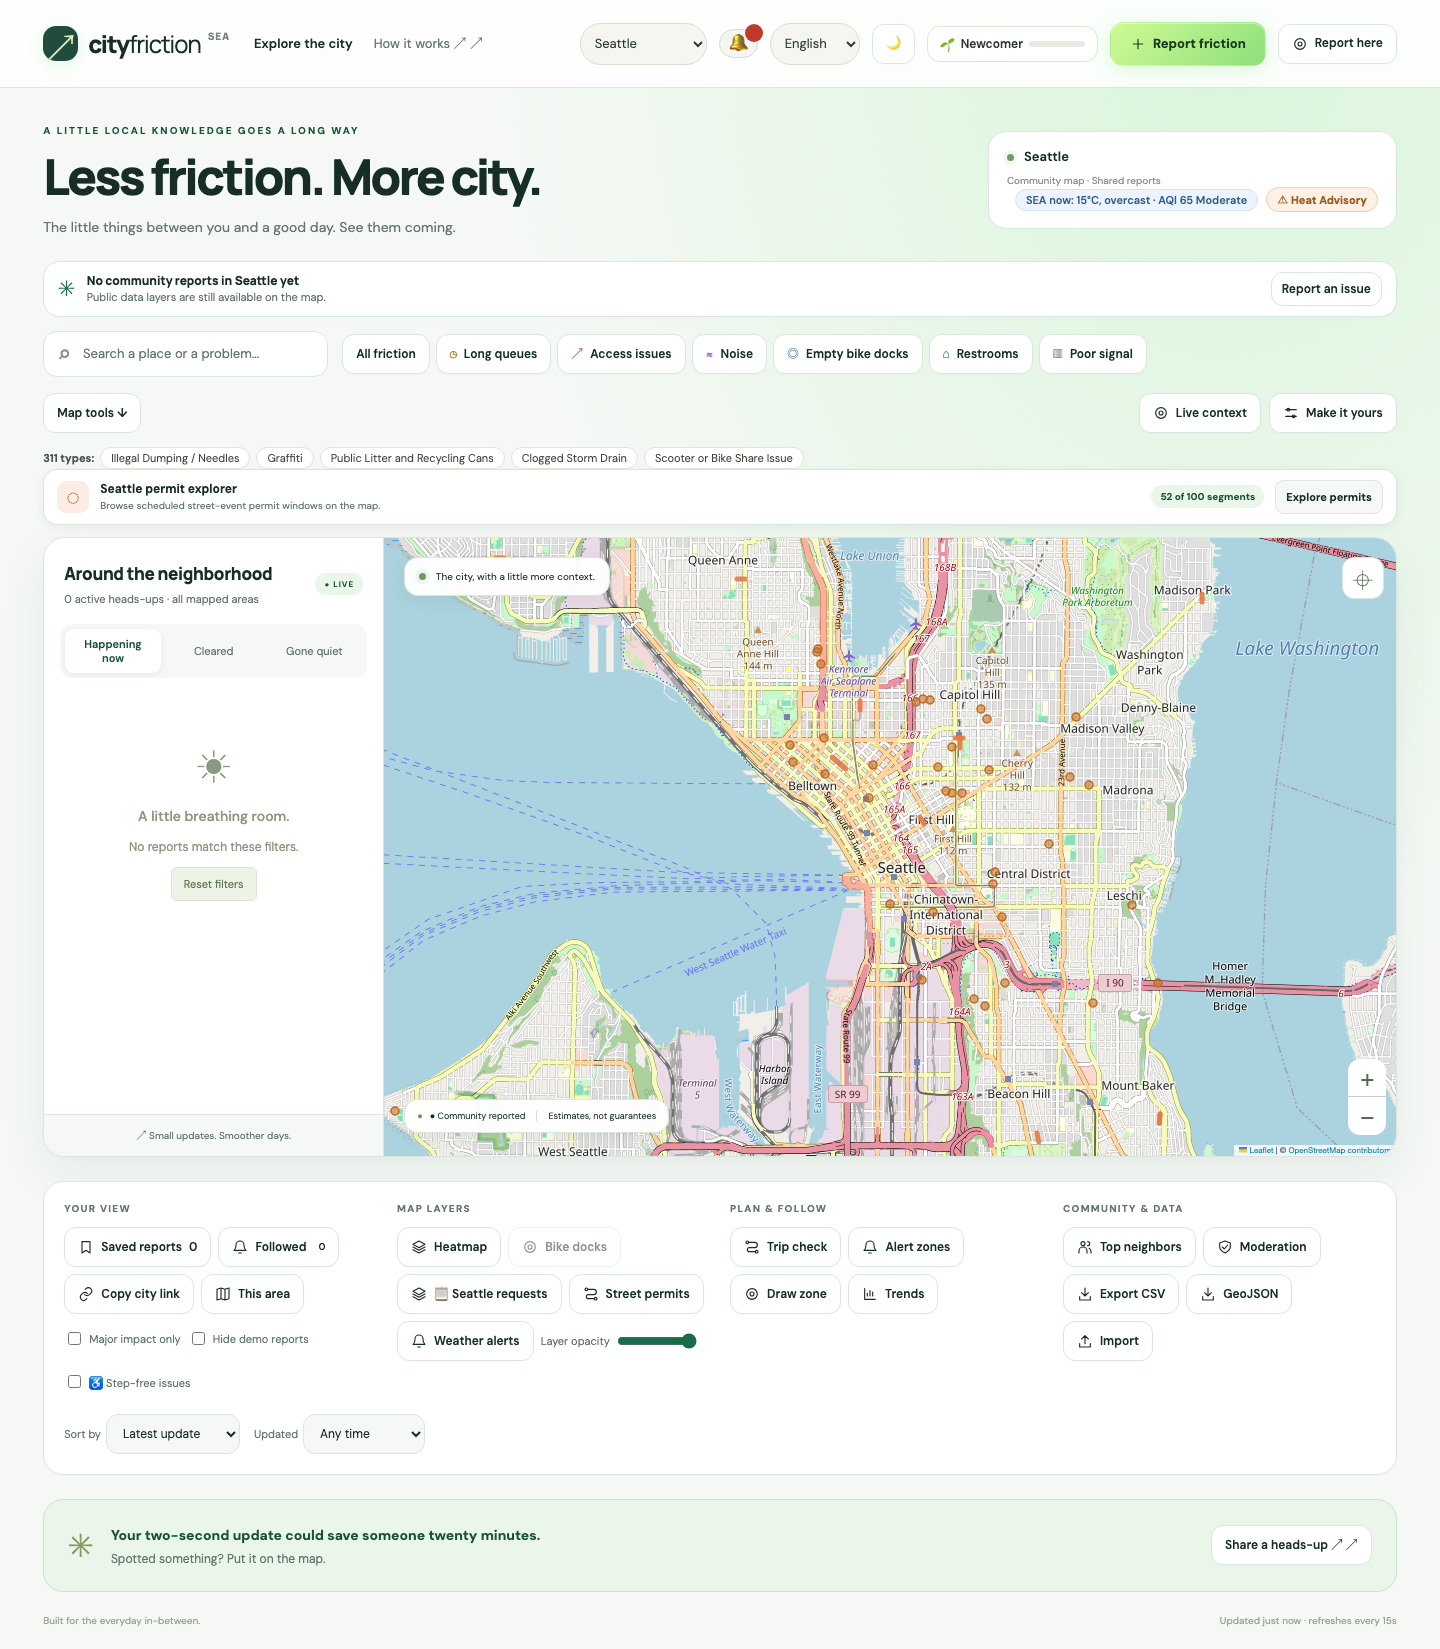
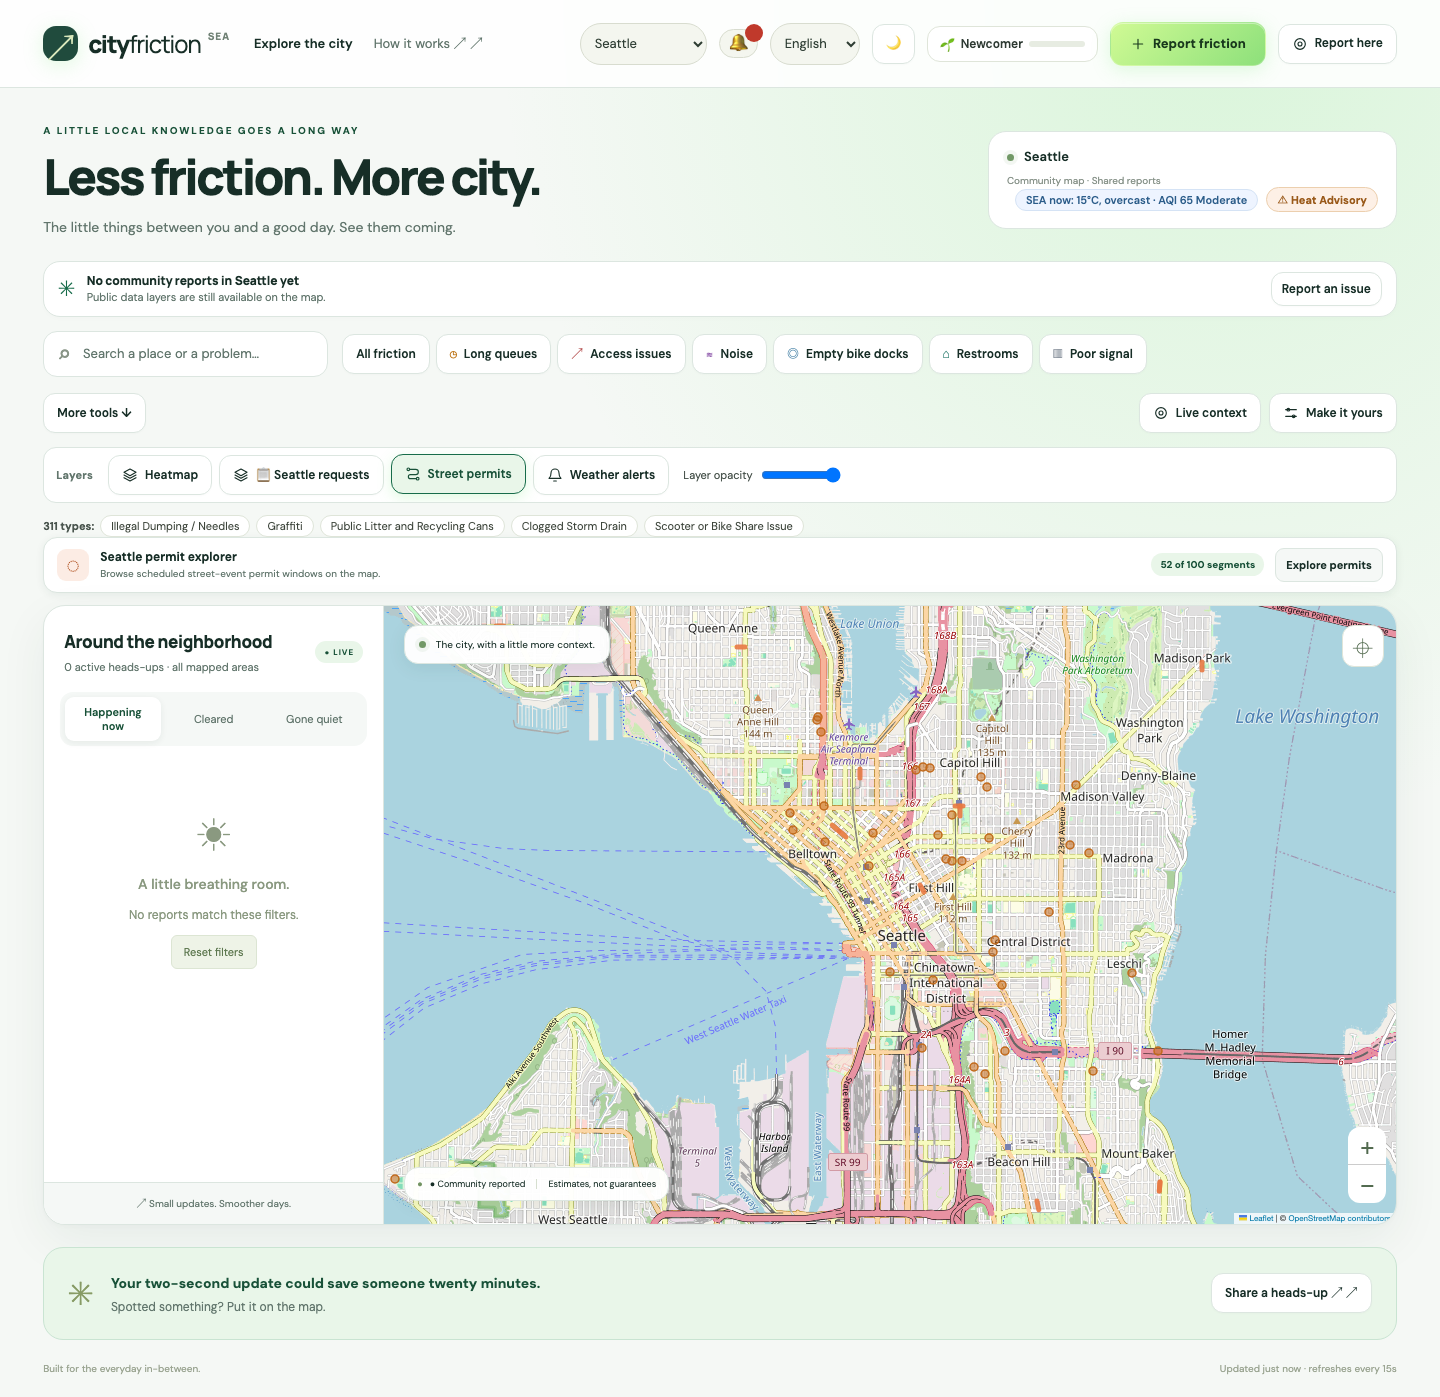
Simplify map controls and refresh UI screenshots

diff --git a/src/modern-ui.js b/src/modern-ui.js
@@ -1,4 +1,4 @@
-// Keep the existing controls and event targets; group them without hiding tools.
+// Keep existing event targets while giving the map a small, predictable control surface.
 export function initModernUI({ spanish = false } = {}) {
   const icons = {
     plus: '<path d="M12 5v14M5 12h14"/>',
@@ -61,6 +61,27 @@ export function initModernUI({ spanish = false } = {}) {
   }
   const controls = document.querySelector(".discovery-controls");
   const original = controls.firstElementChild;
+  const layerDock = document.createElement("section");
+  layerDock.id = "layer-dock";
+  layerDock.className = "layer-dock";
+  layerDock.setAttribute(
+    "aria-label",
+    spanish ? "Capas del mapa" : "Map layers",
+  );
+  const layerTitle = document.createElement("strong");
+  layerTitle.textContent = spanish ? "Capas" : "Layers";
+  layerDock.append(layerTitle);
+  for (const id of [
+    "heat-toggle",
+    "bikes-toggle",
+    "cases-toggle",
+    "sea-events-toggle",
+    "nws-toggle",
+    "layer-opacity",
+  ]) {
+    const control = document.getElementById(id);
+    if (control) layerDock.append(control.closest("label") || control);
+  }
   const groups = [
     [
       spanish ? "Tu vista" : "Your view",
@@ -72,17 +93,6 @@ export function initModernUI({ spanish = false } = {}) {
         "major-only",
         "hide-demo",
         "stepfree-only",
-      ],
-    ],
-    [
-      spanish ? "Capas del mapa" : "Map layers",
-      [
-        "heat-toggle",
-        "bikes-toggle",
-        "cases-toggle",
-        "sea-events-toggle",
-        "nws-toggle",
-        "layer-opacity",
       ],
     ],
     [
@@ -116,28 +126,23 @@ export function initModernUI({ spanish = false } = {}) {
   }
   controls.id = "map-tools";
   controls.tabIndex = -1;
-  controls.dataset.mobileCollapsed = "true";
-  document.querySelector(".workspace").after(controls);
+  controls.hidden = true;
   const jump = document.createElement("button");
   jump.id = "tools-jump";
   jump.className = "preference";
   jump.setAttribute("aria-controls", "map-tools");
-  const jumpLabel = spanish ? "Herramientas del mapa" : "Map tools";
+  const jumpLabel = spanish ? "Más herramientas" : "More tools";
   function syncJump() {
-    const mobile = matchMedia("(max-width: 700px)").matches;
-    const expanded = !mobile || controls.dataset.mobileCollapsed === "false";
-    jump.textContent = `${expanded && mobile ? (spanish ? "Ocultar herramientas" : "Hide map tools") : jumpLabel} ${expanded && mobile ? "↑" : "↓"}`;
+    const expanded = !controls.hidden;
+    jump.textContent = `${expanded ? (spanish ? "Ocultar herramientas" : "Hide tools") : jumpLabel} ${expanded ? "↑" : "↓"}`;
     jump.setAttribute("aria-expanded", String(expanded));
   }
   jump.onclick = () => {
-    if (matchMedia("(max-width: 700px)").matches) {
-      controls.dataset.mobileCollapsed =
-        controls.dataset.mobileCollapsed === "true" ? "false" : "true";
-      syncJump();
-      if (controls.dataset.mobileCollapsed === "true") {
-        jump.focus();
-        return;
-      }
+    controls.hidden = !controls.hidden;
+    syncJump();
+    if (controls.hidden) {
+      jump.focus();
+      return;
     }
     controls.scrollIntoView({
       behavior: matchMedia("(prefers-reduced-motion: reduce)").matches
@@ -147,12 +152,13 @@ export function initModernUI({ spanish = false } = {}) {
     });
     controls.focus({ preventScroll: true });
   };
-  window.addEventListener("resize", syncJump);
   syncJump();
   document.querySelector(".personal-bar").prepend(jump);
   const bar = document.querySelector(".personal-bar");
   bar.after(
+    layerDock,
     document.querySelector("#layer-filters"),
     document.querySelector("#permit-panel"),
+    controls,
   );
 }

diff --git a/tests/browser/app.spec.js b/tests/browser/app.spec.js
@@ -61,9 +61,11 @@ test("comment on a report, follow it, and filter to followed reports", async ({
     "aria-pressed",
     "true",
   );
+  await page.locator("#tools-jump").click();
   await page.locator("#followed-toggle").click();
   await expect(page.locator(".report-card")).toHaveCount(1);
   await page.reload();
+  await page.locator("#tools-jump").click();
   await page.locator("#followed-toggle").click();
   await expect(page.locator(".report-card")).toHaveCount(1);
 });
@@ -81,6 +83,7 @@ test("mobile layout fits the viewport", async ({ page }) => {
 
 test("save, reload, share, filter and sort reports", async ({ page }) => {
   await page.goto("/");
+  await page.locator("#tools-jump").click();
   await page.locator("#major-only").check();
   await expect(page.locator(".report-card")).toHaveCount(2);
   await page.locator("#sort").selectOption("confirmed");
@@ -96,6 +99,7 @@ test("save, reload, share, filter and sort reports", async ({ page }) => {
     "true",
   );
   await page.reload();
+  await page.locator("#tools-jump").click();
   await expect(page.locator("#detail")).toContainText(
     "Elevator out of service",
   );
@@ -105,6 +109,7 @@ test("save, reload, share, filter and sort reports", async ({ page }) => {
   await expect(page.locator(".report-card")).toHaveCount(0);
   await page.locator("#reset-filters").click();
   await page.goto(shared);
+  await page.locator("#tools-jump").click();
   await expect(page.locator("#detail")).toContainText(
     "Elevator out of service",
   );

diff --git a/src/modern.css b/src/modern.css
@@ -444,18 +444,56 @@ aside {
   flex-wrap: wrap;
   justify-content: flex-start;
   gap: 14px;
-  margin: 24px 0;
-  padding: 20px;
+  margin: 0 0 12px;
+  padding: 16px;
   border-radius: 20px;
   border: 1px solid var(--ui-border);
   background: var(--ui-surface);
 }
 .discovery-controls > div {
   display: grid;
-  grid-template-columns: repeat(4, minmax(0, 1fr));
-  gap: 20px;
+  grid-template-columns: repeat(3, minmax(0, 1fr));
+  gap: 16px;
   width: 100%;
   align-items: start;
+}
+.discovery-controls[hidden] {
+  display: none !important;
+}
+.layer-dock {
+  display: flex;
+  align-items: center;
+  gap: 7px;
+  min-width: 0;
+  margin: 0 0 12px;
+  padding: 7px 9px;
+  border: 1px solid var(--ui-border);
+  border-radius: 13px;
+  background: var(--ui-surface);
+  overflow-x: auto;
+  scrollbar-width: thin;
+}
+.layer-dock > strong {
+  flex: none;
+  padding: 0 8px 0 3px;
+  color: var(--ui-muted);
+  font-size: 11px;
+  letter-spacing: 0.02em;
+}
+.layer-dock > button,
+.layer-dock > label {
+  flex: none;
+  white-space: nowrap;
+}
+.layer-dock > button {
+  min-height: 36px;
+  padding: 7px 10px;
+}
+.layer-dock > button:disabled {
+  display: none;
+}
+.layer-dock > label {
+  padding: 0 7px;
 }
 .tool-group {
   display: flex;
@@ -890,9 +928,6 @@ dialog::backdrop {
   }
   .discovery-controls {
     padding: 16px;
-  }
-  #map-tools[data-mobile-collapsed="true"] {
-    display: none !important;
   }
   .discovery-controls > div {
     grid-template-columns: 1fr;

diff --git a/tests/browser/modern.spec.js b/tests/browser/modern.spec.js
@@ -4,22 +4,31 @@ test.beforeEach(async ({ context }) => {
   await context.route("https://tile.openstreetmap.org/**", (r) => r.abort());
 });
 
-test("grouped map tools retain controls and the jump action supports keyboard focus", async ({
+test("map layers stay visible while extra tools open on demand", async ({
   page,
 }) => {
   await page.goto("/");
-  await expect(page.locator("#map-tools .tool-group")).toHaveCount(4);
+  await expect(page.locator("#map-tools")).toBeHidden();
+  await expect(page.locator("#layer-dock")).toBeVisible();
+  await expect(page.locator("#map-tools .tool-group")).toHaveCount(3);
   for (const id of [
     "saved-toggle",
     "trip-toggle",
-    "bikes-toggle",
     "export-csv",
     "major-only",
-    "layer-opacity",
   ]) {
     await expect(page.locator(`#map-tools #${id}`)).toHaveCount(1);
   }
+  for (const id of [
+    "heat-toggle",
+    "bikes-toggle",
+    "cases-toggle",
+    "layer-opacity",
+  ]) {
+    await expect(page.locator(`#layer-dock #${id}`)).toHaveCount(1);
+  }
   await page.locator("#tools-jump").click();
+  await expect(page.locator("#map-tools")).toBeVisible();
   await expect(page.locator("#map-tools")).toBeFocused();
   await expect(page.locator("#report")).toHaveAccessibleName("Report friction");
   await expect(page.locator("#report svg")).toHaveAttribute(

diff --git a/tests/browser/seattle.spec.js b/tests/browser/seattle.spec.js
@@ -150,6 +150,7 @@ test("city-specific links open the intended city and can be copied", async ({
   await page.addInitScript(() => localStorage.setItem("friction-city", "sf"));
   await page.goto("/?city=sea");
   await expect(page.getByLabel("Choose city")).toHaveValue("sea");
+  await page.locator("#tools-jump").click();
   await page.locator("#city-link").click();
   const copied = await page.evaluate(() => navigator.clipboard.readText());
   assertCityUrl(copied, "sea");

diff --git a/tests/browser/trip-check.spec.js b/tests/browser/trip-check.spec.js
@@ -12,6 +12,7 @@ test("trip check draws a route and reports corridor friction", async ({
   await page.goto("/");
   await expect(page.locator(".report-card")).toHaveCount(9);
 
+  await page.locator("#tools-jump").click();
   await page.locator("#trip-toggle").click();
   await expect(page.locator("#trip-panel")).toBeVisible();
   await expect(page.locator("#trip-panel")).toContainText("drop route stops");

diff --git a/tests/browser/focus.spec.js b/tests/browser/focus.spec.js
@@ -12,6 +12,7 @@ test("map focus controls and report-age filters work together", async ({
     });
   });
   await page.goto("/");
+  await page.locator("#tools-jump").click();
   await expect(page.locator(".report-card").first()).toBeVisible();
   await expect(page.locator(".demo").first()).not.toContainText("${");
   await page.locator("#max-age").selectOption("1");

diff --git a/public/sw.js b/public/sw.js
@@ -1,6 +1,6 @@
 // City Friction Map service worker.
 // App shell: cache-first. API: network-first with cache fallback.
-const VERSION = "cfm-1.9.7";
+const VERSION = "cfm-1.9.8";
 const APP_SHELL = [
   "/",
   "/index.html",

diff --git a/src/style.css b/src/style.css
@@ -2574,6 +2574,7 @@ body.embed #theme-toggle,
 body.embed .intro,
 body.embed .toolbar,
 body.embed .discovery-controls,
+body.embed .layer-dock,
 body.embed #summary,
 body.embed aside,
 body.embed .bottom,

diff --git a/README.md b/README.md
@@ -11,7 +11,7 @@ A community-powered map of the small obstacles that interrupt everyday life: lon
 
 **San Francisco · Seattle · New York** · Keyless public data · Light/dark mode · Four accent colors
 
-![Modern green dashboard with city statistics, category filters, community reports, an interactive map, and grouped map tools](docs/screenshots/desktop.png)
+![Clean green dashboard with city statistics, a compact layer strip, community reports, and an interactive map](docs/screenshots/desktop.png)
 
 [Quick start](#quick-start) · [Features](#what-you-can-do) · [Screenshots](#screenshots) · [Live data](#real-data-clear-boundaries) · [Engineering notes](docs/architecture.md)
 
@@ -39,9 +39,9 @@ npm run dev
 ```
 
 Open [localhost:3000](http://localhost:3000). San Francisco starts with **fictional, labeled demo reports**; Seattle and New York start without seeded reports.
-Open [the Seattle view](http://localhost:3000/?city=sea) directly, or use **Copy city link** under Map tools to share a city-specific URL from any view.
+Open [the Seattle view](http://localhost:3000/?city=sea) directly, or use **Copy city link** under **More tools** to share a city-specific URL from any view.
 
-**A two-minute tour:** choose a category → open a report → explore **Live context** → try **Make it yours** → use **Map tools** to inspect layers or check a trip.
+**A two-minute tour:** choose a category → open a report → try the compact **Layers** strip → explore **Live context** → open **More tools** to check a trip.
 
 For a production build:
 
@@ -58,8 +58,7 @@ Fresh captures of the current interface—not design mockups. Community reports 
 
 ![Seattle map with a compact permit summary above the map](docs/screenshots/seattle.png)
 
-Seattle's two city feeds appear under **Map layers** when Seattle is selected. The compact permit row keeps the map visible; **Explore permits** opens search, daily counts, and shareable permit links. Entries without weekday details remain in **All windows** rather than being shown as active today. Orange dashed segments show permits, not confirmed closures.
-On phones, **Map tools** stays folded until opened so the map and reports remain easy to reach.
+Seattle's two city feeds appear in the compact **Layers** strip when Seattle is selected. Less-used preferences, trip planning, and data actions stay under **More tools**, folded by default on desktop and mobile. The compact permit row keeps the map visible; **Explore permits** opens search, daily counts, and shareable permit links. Entries without weekday details remain in **All windows** rather than being shown as active today. Orange dashed segments show permits, not confirmed closures.
 
 <details>
 <summary><strong>Expanded permit explorer</strong></summary>
@@ -71,7 +70,7 @@ On phones, **Map tools** stays folded until opened so the map and reports remain
 <details>
 <summary><strong>Dark mode · blue accent</strong></summary>
 
-![Blue-accent dark dashboard with city reports, map, and grouped tools](docs/screenshots/dark-mode.png)
+![Blue-accent dark dashboard with city reports, map, and compact layers](docs/screenshots/dark-mode.png)
 
 </details>
 
@@ -177,7 +176,7 @@ In another terminal:
 node scripts/screenshots.js http://127.0.0.1:3200
 ```
 
-The script captures seven PNGs in `docs/screenshots/`, uses real public feeds, and never submits reports, votes, or comments. It requires Chromium from the installation step above. Stop the demo server when finished; its in-memory data is discarded.
+The script captures nine PNGs in `docs/screenshots/`, uses real public feeds, and never submits reports, votes, or comments. It requires Chromium from the installation step above. Stop the demo server when finished; its in-memory data is discarded.
 
 ## Scope and limitations
 
